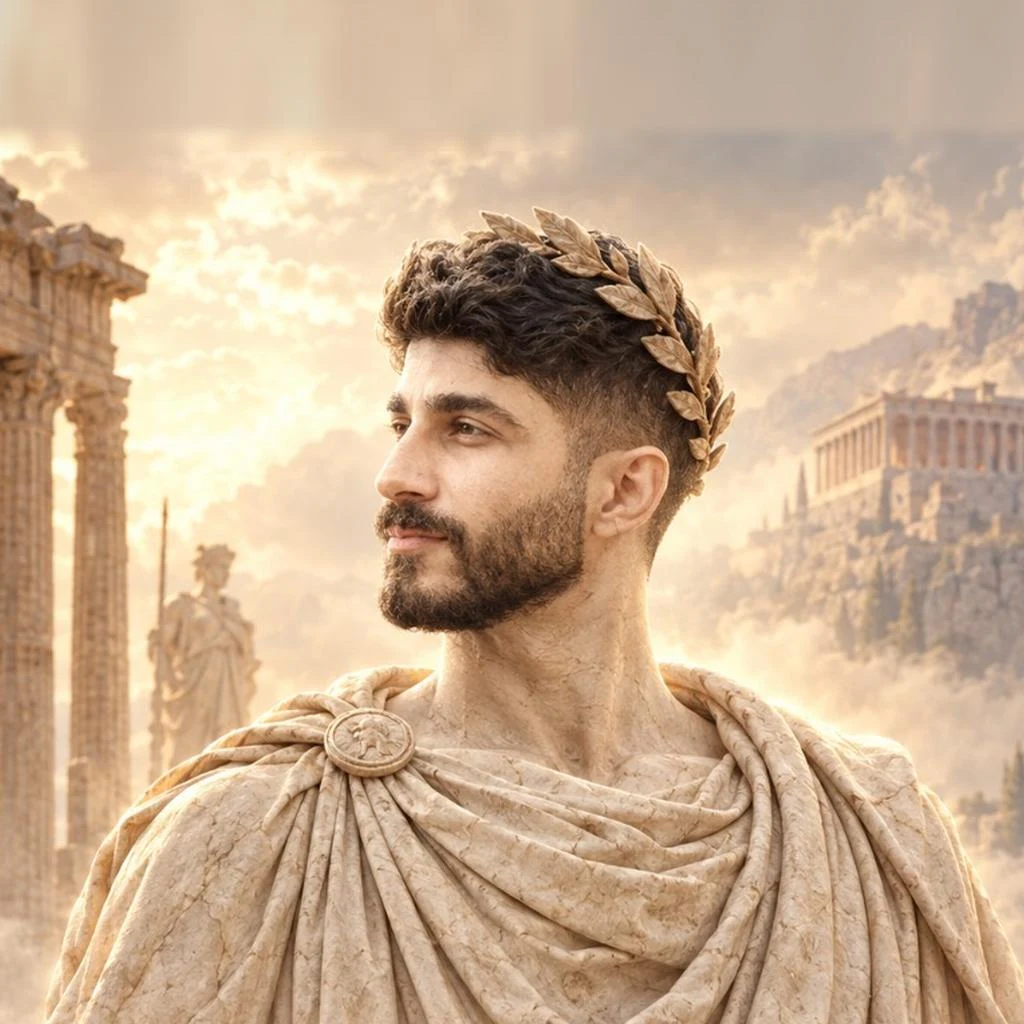
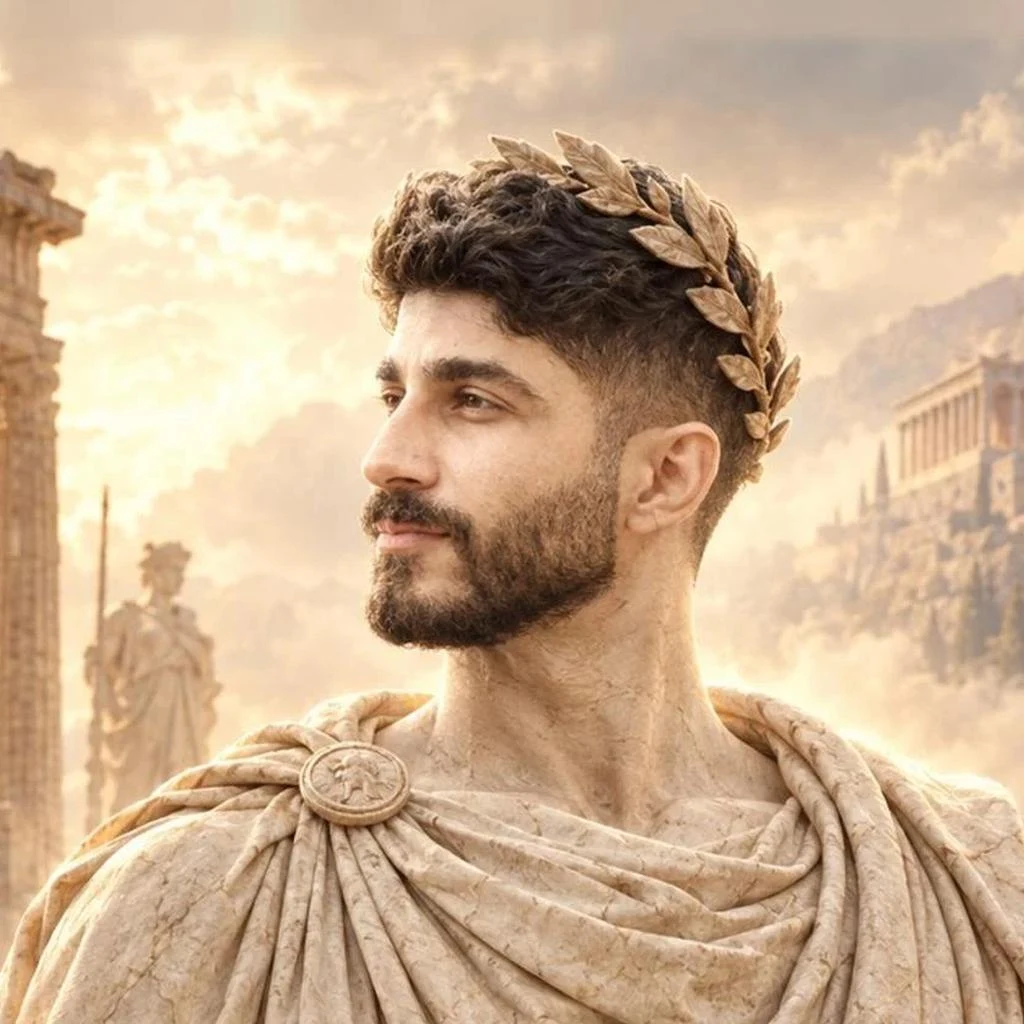
chore: update speaker images, site layout, sitemap, and APA method section

diff --git a/src/components/ApaMethodSection.tsx b/src/components/ApaMethodSection.tsx
@@ -187,14 +187,19 @@ export default function ApaMethodSection() {
           {SPEAKERS.map((speaker) => (
             <div
               key={speaker.name}
+              itemScope
+              itemType="https://schema.org/Person"
               className="flex flex-col rounded-2xl overflow-hidden bg-white/90 backdrop-blur-sm border border-black/[0.08] shadow-[0_8px_24px_rgba(0,0,0,0.03)] hover:shadow-[0_16px_36px_rgba(0,0,0,0.07)] hover:border-black/15 transition-all duration-300 group"
             >
               {/* Full Portrait Aspect Image Container */}
               <div className="relative w-full aspect-[4/5] overflow-hidden bg-[#EFECE6] shrink-0">
-                {/* Real Photo (Base Layer) */}
+                {/* Real Photo (Base Layer) - Primary SEO Image */}
                 <img
                   src={getAssetPath(speaker.image)}
-                  alt={speaker.name}
+                  alt={`عکس ${speaker.name} - ${speaker.role}`}
+                  itemProp="image"
+                  width={1024}
+                  height={1024}
                   loading={speaker.romanImage ? "eager" : "lazy"}
                   decoding="async"
                   className="w-full h-full object-cover filter contrast-[1.03] group-hover:scale-105 origin-[48%_35%] transition-all duration-700 ease-out will-change-[opacity,transform]"
@@ -204,7 +209,9 @@ export default function ApaMethodSection() {
                 {speaker.romanImage && (
                   <img
                     src={getAssetPath(speaker.romanImage)}
-                    alt={`${speaker.name} - رومی`}
+                    alt={`پرتره هنری رومی ${speaker.name} در رویداد در میان مه فرانتچپتر`}
+                    width={1024}
+                    height={1024}
                     loading="eager"
                     decoding="async"
                     className="absolute inset-0 w-full h-full object-cover filter contrast-[1.03] opacity-100 group-hover:opacity-0 group-hover:scale-105 origin-[48%_35%] transition-all duration-700 ease-in-out pointer-events-none will-change-[opacity,transform]"
@@ -215,7 +222,7 @@ export default function ApaMethodSection() {
 
                 {/* Name & Role Glass Pill Overlay on Image */}
                 <div className="absolute bottom-2.5 left-2.5 right-2.5 flex items-center justify-between text-[11px] text-white bg-black/65 backdrop-blur-md px-3 py-1.5 rounded-full border border-white/15 shadow-sm font-medium z-20">
-                  <span className="font-bold tracking-tight">
+                  <span itemProp="name" className="font-bold tracking-tight">
                     {speaker.name}
                   </span>
                   <span className="text-white/80 text-[10px] font-normal truncate max-w-[120px]">
@@ -227,10 +234,10 @@ export default function ApaMethodSection() {
               {/* Ultra-Compact Bottom Box */}
               <div className="px-3.5 py-3 sm:px-4 sm:py-3.5 flex flex-col flex-1 justify-between gap-2.5 text-right">
                 <div className="space-y-1">
-                  <div className="text-[11.5px] font-bold text-black/90 leading-snug">
+                  <div itemProp="jobTitle" className="text-[11.5px] font-bold text-black/90 leading-snug">
                     {speaker.role}
                   </div>
-                  <p className="text-[11px] text-black/65 leading-relaxed font-normal">
+                  <p itemProp="description" className="text-[11px] text-black/65 leading-relaxed font-normal">
                     {speaker.bio}
                   </p>
                 </div>

diff --git a/src/app/layout.tsx b/src/app/layout.tsx
@@ -84,21 +84,25 @@ const jsonLdEvent = {
       '@type': 'Person',
       name: 'دکتر مهیار پویامهر',
       jobTitle: 'روانشناس بالینی و مدرس دانشگاه',
+      image: `${siteUrl}/assets/speaker-mahyar-pouyamehr.webp`,
     },
     {
       '@type': 'Person',
       name: 'یاسین همتی',
       jobTitle: 'رئیس هیئتمدیره شرکت تأمین آلیاژ کارا صنعت',
+      image: `${siteUrl}/assets/speaker-yasin-hemmati.webp`,
     },
     {
       '@type': 'Person',
       name: 'امیر کریمی',
       jobTitle: 'مهندس ارشد نرمافزار و مدیر فناوری InteliCraft',
+      image: `${siteUrl}/assets/speaker-amir-karimi.webp`,
     },
     {
       '@type': 'Person',
       name: 'پویا صبرآموز',
       jobTitle: 'مدیرعامل (CEO) و مدیر فناوری سابق',
+      image: `${siteUrl}/assets/speaker-pouya-sabramooz.webp`,
     },
   ],
   offers: [
